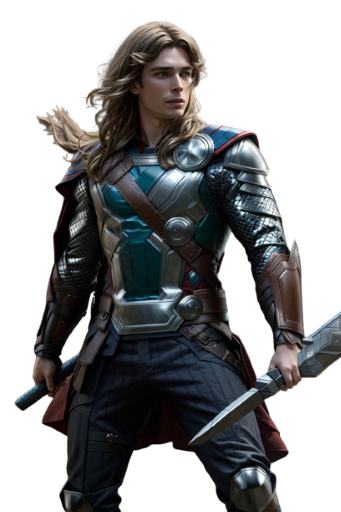
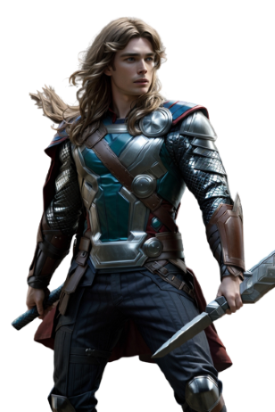
section 2 done

diff --git a/index.html b/index.html
@@ -27,9 +27,41 @@
         </ul>
       </div>
       <div class="falcon-img">
-        <img src="marvel-2.png" alt="" />
+        <a href="https://www.w3schools.com/" target="_blank"
+          ><img src="marvel-2.png" alt=""
+        /></a>
       </div>
     </section>
     <!-- sections 1 ends  -->
+    <!-- section 2 -->
+    <section class="part-2">
+      <div class="thor">
+        <a
+          href="https://developer.mozilla.org/en-US/docs/Web/CSS"
+          target="_blank"
+          ><img src="marvel-1.png" alt=""
+        /></a>
+      </div>
+      <div class="about-me">
+        <h1>About Me</h1>
+        <p>
+          Hey there, I'm Falcon—not the one you'll find soaring through the
+          skies in the Marvel Universe, but a web developer ready to take your
+          digital experience to new heights! Just like my namesake, I navigate
+          the vast world of coding and technology with agility and precision.
+          With a keen eye for design and a knack for turning ideas into
+          interactive web experiences, I bring a superhero touch to every
+          project.
+          <br />
+          <br />
+          Whether it's crafting responsive websites that adapt like a superhero
+          in action or optimizing code for peak performance, I'm here to ensure
+          your online presence takes flight. Much like Falcon's wings, my coding
+          skills are versatile and dynamic. From front-end elegance to back-end
+          functionality.
+        </p>
+      </div>
+    </section>
+    <!-- section 2 -->
   </body>
 </html>

diff --git a/style.css b/style.css
@@ -7,6 +7,8 @@ body {
 /* section 1 starts  */
 .part-1 {
   display: flex;
+  margin-bottom: 100px;
+  margin-left: 60px;
 }
 
 .part-1 h1 {
@@ -23,3 +25,18 @@ body {
   margin-left: 60px;
 }
 /* section 1 endss  */
+
+/* section 2  */
+.part-2 {
+  display: flex;
+  justify-content: center;
+  margin-left: 50px;
+  align-items: center;
+}
+
+.about-me {
+  margin-left: 120px;
+  margin-right: 50px;
+}
+
+/* section 2  */
